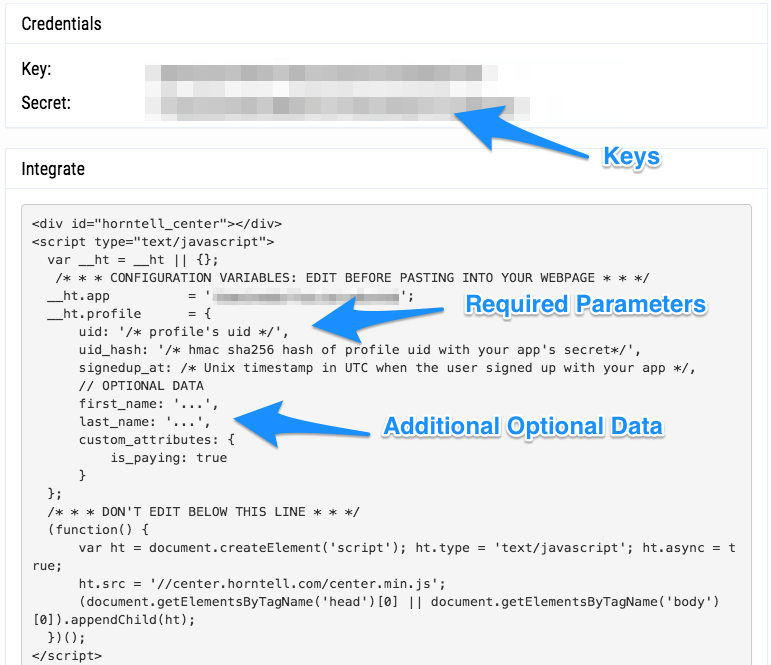
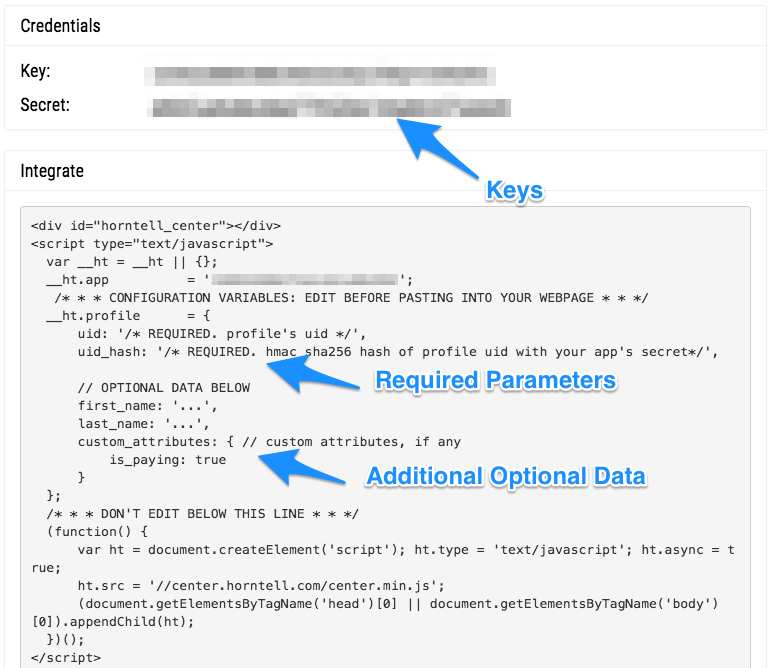
changed the docs to make signedup_at optional

diff --git a/articles/how-to-integrate-horntell-center/index.html b/articles/how-to-integrate-horntell-center/index.html
@@ -99,7 +99,7 @@
 <div class="post-header mb2">
   <h3>How to integrate the JS widget (aka Horntell Center)?</h3>
   <p class="post-meta">Horntell Center is the real-time notification center that gets embedded on your site.</p>
-  <span class="post-meta small">2 minute read</span>
+  <span class="post-meta small">1 minute read</span>
 </div>
 
 <article class="post-content">
@@ -117,7 +117,6 @@
 <ul>
 <li><strong>uid</strong>: This is the unique identifier for the user in your app. (Primary Key)</li>
 <li><strong>uid_hash</strong>: This is the HMAC SHA256 hash of profile’s uid with your app’s secret key.</li>
-<li><strong>signedup_at</strong>: This is the UNIX timestamp (in UTC) of the user when she first signed up for your app.</li>
 </ul>
 </li>
 <li><p>Besides these required parameters, you can also send the optional data that you want to keep in the profile. More information about various profile attributes can be found at: <a href="http://docs.horntell.com/api/#profiles">http://docs.horntell.com/api/#profiles</a>.</p></li>
